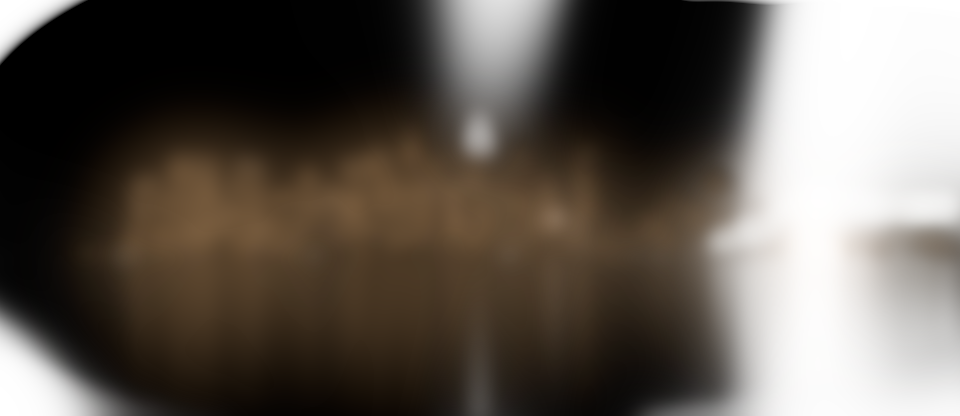
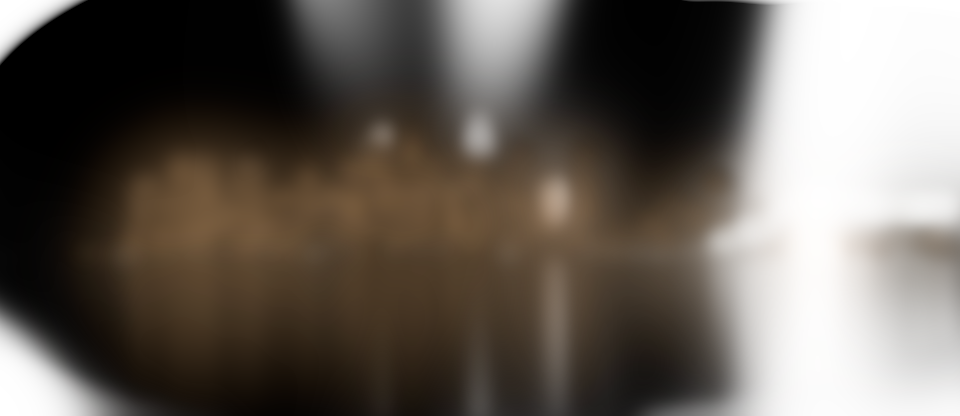
New York's lit crowns and the FDR Drive's lamps
The Woolworth Building, 70 Pine and 40 Wall Street's crowns and the Empire
State Building's top are floodlit at night as the photos show them (roofs
now take the floodlight too), and the FDR viaduct carries a chain of lamps
along the waterfront.

Changed region(s): [[0.2812, 0.0, 0.4375, 0.375], [0.5312, 0.625, 0.625, 1.0], [0.5312, 0.25, 0.625, 0.5312]]

diff --git a/scripts/blender/skyline.py b/scripts/blender/skyline.py
@@ -84,7 +84,7 @@ FLOOD_GAIN = 6.0
 # The share of the evening's lit windows still lit late at night (the site mixes the two by local hour):
 # about 6% of all windows, as chosen.
 LATE_SHARE = 0.32
-FLOODLIT = {}  # building (or the building it is part of) by name -> flood, from landmarks_<city>.py
+FLOODLIT = {}  # building (or the building it is part of) by name, or a part by OSM id -> flood, from landmarks_<city>.py
 
 # Reference photos (data/refs/<city>/, Wikimedia Commons, see sources.json): where the camera looks,
 # its horizontal field of view and pitch, and the photo's size.
@@ -333,13 +333,24 @@ def simple_material(name, colour, roughness=0.8, **extra):
 
 
 def roof_material():
+    """Roofs; floodlit ones (a crown's pyramid, a spire: the 'flood' attribute) lit as the walls are."""
     mat = bpy.data.materials.new('roof')
     nt = nodes_of(mat)
     col = attr(nt, 'roofc', 'Color')
     b = node(nt, 'ShaderNodeBsdfPrincipled', Roughness=0.7)
     nt.links.new(col, b.inputs['Base Color'])
+    gain = node(nt, 'ShaderNodeValue', name='city_gain', label='city_gain')
+    gain.outputs[0].default_value = 1.0
+    bb = node(nt, 'ShaderNodeBlackbody')
+    bb.inputs['Temperature'].default_value = 2600.0
+    e = node(nt, 'ShaderNodeEmission')
+    nt.links.new(mix_colour(nt, 1.0, col, bb.outputs[0], 'MULTIPLY'), e.inputs['Color'])
+    nt.links.new(math_node(nt, 'MULTIPLY', math_node(nt, 'MULTIPLY', attr(nt, 'flood'), gain.outputs[0]), FLOOD_GAIN), e.inputs['Strength'])
+    add = node(nt, 'ShaderNodeAddShader')
+    nt.links.new(b.outputs[0], add.inputs[0])
+    nt.links.new(e.outputs[0], add.inputs[1])
     out = node(nt, 'ShaderNodeOutputMaterial')
-    nt.links.new(b.outputs[0], out.inputs['Surface'])
+    nt.links.new(add.outputs[0], out.inputs['Surface'])
     return mat
 
 
@@ -654,7 +665,7 @@ def add_building(mb, b):
         roofc = tuple(c * 0.7 for c in NAMED[rc])
     elif rc and rc.startswith('#') and len(rc) == 7:
         roofc = desaturate(tuple(min(srgb_to_linear(int(rc[i:i + 2], 16) / 255) * 0.6, 0.4) for i in (1, 3, 5)), 0.5)
-    flood = FLOODLIT.get(b.get('name')) or FLOODLIT.get((b.get('within') or {}).get('name')) or 0.0
+    flood = FLOODLIT.get(b['id']) or FLOODLIT.get(b.get('name')) or FLOODLIT.get((b.get('within') or {}).get('name')) or 0.0
     face_attrs = dict(wall=col, style=style, bay=bay, floorh=floorh, win_w=win_w, win_h=win_h, frame=frame, busy=busy, seed=seed, roofc=roofc, flood=flood,
                       **facade_runs(style))
     for ring in [*outer, *inner]:
@@ -825,6 +836,18 @@ def build_bridges():
                 mb.face([(*q, deck - 1.6) for q in quad[::-1]])
                 for (p0, p1) in ((quad[0], quad[1]), (quad[2], quad[3])):
                     mb.face([(*p0, deck - 1.6), (*p1, deck - 1.6), (*p1, deck + 1.1), (*p0, deck + 1.1)])
+            # Its lamps, which OSM does not map: one every 35 m along the deck's edge (chosen; reference
+            # photo 8 shows an unbroken chain of them along the waterfront), as the street lamps are.
+            walked = 17.5
+            for i in range(1, len(pts)):
+                (ax, ay), (cx, cy) = pts[i - 1], pts[i]
+                L = math.hypot(cx - ax, cy - ay)
+                while walked < L:
+                    t = walked / L
+                    nx, ny = -(cy - ay) / L * (half - 0.5), (cx - ax) / L * (half - 0.5)
+                    scene_data['lamps'].append({'at': [ax + (cx - ax) * t + nx, ay + (cy - ay) * t + ny], 'base': deck, 'colour': None, 'count': 1})
+                    walked += 35.0
+                walked -= L
     return mb.build([MAT['bridge']])
 
 

diff --git a/scripts/blender/landmarks_new_york.py b/scripts/blender/landmarks_new_york.py
@@ -14,9 +14,20 @@ ONE_WTC = 'way/713565776'
 BB_TOWER = 'way/1255363983'  # the Brooklyn Bridge's Manhattan tower (OSM: an 82.9 m stone block)
 BB_OUTLINE = 'way/375157262'  # its outline as man_made=bridge (a 26 m slab at deck height otherwise)
 REPLACES = {ONE_WTC, BB_TOWER, BB_OUTLINE}
-# Floodlit at night, by name (a building or the building a part belongs to), relative brightness: the
-# crowns the reference photos show lit (ref5, ref8): the Woolworth Building's gold, 70 Pine's lantern.
-FLOODLIT = {'Woolworth Building': 1.0}
+# Floodlit at night, by name (a building or the building a part belongs to) or a part by its OSM id,
+# relative brightness. The crowns the reference photos show lit: the Woolworth Building's gold from its
+# setbacks up (ref5, ref8; its parts above 120 m); two lit spires among the pre-war towers (ref8): 70 Pine's
+# lantern and spire (its parts above 242 m) and 40 Wall Street's copper pyramid and spire; and at the view's
+# right edge the Empire State Building's top (its parts above 255 m), lit every night.
+FLOODLIT = {
+    'Woolworth Building': 0.6,
+    **{f'way/{i}': 1.0 for i in (274782341, 274782325, 274782329, 274782334, 274782339, 274782344, 274782327, 274782330,
+                                 274782332, 274782336, 274782323)},
+    **{f'way/{i}': 0.9 for i in (286032722, 286032716, 286032720, 286032710, 286032719, 286032714, 286032721, 286032743,
+                                 286032742, 286032740)},
+    **{f'way/{i}': 0.9 for i in (277555174, 286057082, 286057109, 286057105)},
+    **{f'way/{i}': 1.4 for i in (137425145, 265932618, 137425125, 137425129)},
+}
 
 # One World Trade Center (Wikipedia): a 61 m (200 ft) square; a 56 m (185 ft) windowless base; from there
 # its edges chamfered into eight isosceles triangles up to the roof at 417.0 m, where the square is turned

diff --git a/DECISIONS.md b/DECISIONS.md
@@ -384,3 +384,4 @@ Still provisional:
 - The view: 120° by 42° (-20° to +22°: One World Trade Center's tip is about 17° up) at 32 px a degree, 3840 × 1344; waves' fetch 530 m (the East River from Pier 1 to Manhattan along the view, OpenStreetMap); lab captures at New York's own times (lab-capture.mjs TIMES per city).
 - Checked in the lab at night, dusk and midday, raining and clear, drift and dive, and at the site's dive with live weather (review/nyc/). npm test 83/83, smoke 5/5; bundle 1,547.1 kB.
 - Performance, flagged: New York's images are about 7 MB a season to download and, like London's, about 100 MB of GPU memory with mips (the panorama, its mirror and glow). The half-resolution set for the low tier is still to decide.
+- Polish, same day: the crowns the reference photos show lit at night are floodlit gold (FLOODLIT now also takes a part's OSM id, and roofs take the floodlight as walls do, so pyramids and spires glow): the Woolworth Building from its setbacks up (its parts above 120 m; ref5, ref8), 70 Pine Street's lantern and spire (above 242 m) and 40 Wall Street's copper pyramid and spire (ref8's two lit spires among the pre-war towers), and the Empire State Building's top at the view's right edge (above 255 m; lit every night). The FDR Drive's viaduct carries lamps OSM does not map, one every 35 m along the deck's edge (chosen; reference photo 8 shows an unbroken chain along the waterfront), as London's embankment carries its lamp standards. Re-rendered both seasons; checked in the lab at dusk and night.
